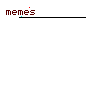
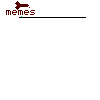
yay it works now

Changed region(s): [[0.15, 0.0, 0.3, 0.12]]

diff --git a/game.py b/game.py
@@ -7,155 +7,26 @@ from vector import *
 from sprite import *
 from map_constructor import *
 
-#IMG = 'http://www.cs.rhul.ac.uk/courses/CS1830/sprites/runnerSheet.png'
-#IMG = 'https://i.postimg.cc/vH7ssn2z/piggie.png'
-#IMG = 'https://i.postimg.cc/bwkbkgb4/excalibur.png'
 WIDTH = 800
 HEIGHT = 450
-count = 0
 clock = 0
+player = None  # will be overwritten
+MAP_CONSTRUCTOR = MapConstructor(HEIGHT)
+map = None
 
-# <<<<<<< HEAD
-# =======
-# #############################################################################################
-# # Platform
-# class Platform:
-#     def __init__(self, y, border, color):
-#         self.y = y
-#         self.border = border
-#         self.color = color
-#         self.normal = Vector((0, 1))
-#         self.edgeR = y + 1 + self.border
-#
-#     def draw(self, canvas):
-#         canvas.draw_line((0, self.y),
-#                          (WIDTH, self.y),
-#                          self.border * 2 + 1,
-#                          self.color)
-#
-#     def hit(self, obj):
-#         h = (obj.offsetB() >= self.edgeR)
-#         return h
-#
-# #############################################################################################
-# # Player
-# class Player: # model the character as a ball for now convenient hitboxes
-#     def __init__(self, pos, vel, radius, image, columns,row):
-#         self.dir = "right"
-#         self.pos = pos
-#         self.vel = vel
-#         self.radius = radius
-#         self.diameter = radius*2
-#         self.border = 1
-#         self.sprite = Sprite(image,columns,row)
-#         self.move_buffer = []
-#         self.collision = []
-#         self.state = "rest"
-#         self.animation_frame = 0
-#
-#     def offsetB(self):
-#         return self.pos.y + self.radius
-#
-#     def update(self):
-#         global clock
-#         self.pos.add(self.vel)
-#         self.vel.subtract(Vector((0,-0.0981)))
-#         if self.state == "rest":
-#             sprite.set_frame([8,0])
-#             for move in self.move_buffer:
-#                 self.handle_move(move)
-#
-#         elif self.state == "attack":
-#             sprite.frame_index = [0,0]
-#             if clock % 3 == 0:
-#                 sprite.step_frame()
-#                 self.animation_frame += 1
-#             self.move_right(1)
-#             if self.animation_frame == 9:
-#                 self.animation_frame = 0
-#                 self.state = "rest"
-#                 self.remove_move("a")
-#
-#         elif self.state == "blink":
-#             if clock % 10 == 0:
-#                 sprite.step_frame()
-#                 self.animation_frame += 1
-#             if self.animation_frame == 9:
-#                 self.animation_frame = 0
-#                 self.state = "rest"
-#                 self.remove_move("s")
-#
-#         self.check_collision()
-#
-#
-#     def draw(self, canvas):
-#         '''canvas.draw_circle(self.pos.getP(),
-#                            self.radius,
-#                            1,
-#                            self.color,
-#                            self.color)
-#         '''
-#         sprite.draw(canvas, (self.pos), (self.diameter, self.diameter))
-#
-#     def add_move(self,key):
-#         self.move_buffer.append(key)
-#
-#     def remove_move(self,key):
-#         for key in self.move_buffer:
-#             self.move_buffer.remove(key)
-#
-#     def handle_move(self,move):
-#         if move == simplegui.KEY_MAP["left"]:
-#             self.dir = "left"
-#             self.move_left(3)
-#         if move == simplegui.KEY_MAP["right"]:
-#             self.dir = "right"
-#             self.move_right(3)
-#         if move == simplegui.KEY_MAP["a"]:
-#             self.__setstate__("attack")
-#         if move == simplegui.KEY_MAP["s"]:
-#             self.__setstate__("blink")
-#
-#     def move_left(self,speed):
-#         self.pos.add(Vector((-speed,0)))
-#
-#     def move_right(self,speed):
-#         self.pos.add(Vector((speed,0)))
-#
-#     def __setstate__(self, state):
-#         self.state = state
-#
-#     def collide(self, object):
-#         self.collision.append(object)
-#
-#     def check_collision(self):
-#         if len(self.collision) != 0:
-#             for object in self.collision:
-#                 if isinstance(object,Platform):
-#                     self.vel.y = 0
-#                     self.pos.y = object.y - self.radius
-# >>>>>>> df0f774c3605c0d21c4cbb6c4b6c8af49be4d7c3
+def return_level_file(level_id):
+    level_dict = {
+        1:"testmap.png"
+    }
+    return level_dict.get(level_id)
 
-#############################################################################################
-# Interaction
 
-class Interaction: # takes list of objects on screen and the player
-    # Obj 1 = Item that hits another (ball)
-    # Obj 2 = Item that gets "hit" (wall)
-    def __init__(self, obj1, obj2):
-        self.obj2 = obj2
-        self.obj1 = obj1
-
-    def update(self):
-        if self.obj1.hit(self.obj2):
-            self.obj2.collide(self.obj1)
-        self.obj2.update()
-        #print(self.wall.hit(self.ball))
-
-    def draw(self, canvas):
-        self.update()
-        self.obj1.draw(canvas)
-        self.obj2.draw(canvas)
+def setup_level(level_id):
+    global MAP_CONSTRUCTOR, map, player
+    map = MAP_CONSTRUCTOR.generate_map(return_level_file(level_id)) # gets the map corresponding to the level id passed
+    for object in map:
+        if isinstance(object, Player):
+            player = object
 
 #############################################################################################
 # Collision
@@ -173,32 +44,16 @@ class Collision:
         return False
 
 #############################################################################################
-# Global Vars
-p = Vector((100,200))
-v = Vector((0,-0.5))
-player = Player(p, v, 32,IMG,1,1)
-plat = Platform(HEIGHT-100)
-i = Interaction(plat, player)
-
-#############################################################################################
 # Game Logic
 
 ###############
 # Handlers
 def draw_handler(canvas):
-    global WIDTH, HEIGHT, sprite,count, OBJECT_ARRAY,player
-    if (count % 5 == 0):
-        #sprite.step_frame()
-        pass
-    #sprite.draw(canvas, Vector((WIDTH / 2, HEIGHT / 2)), (200, 200))
-    count += 1
-    #i.draw(canvas)
-    #i.update()
-    for object in OBJECT_ARRAY:
-        if object is not None:
-            object.draw(canvas)
-    player.draw(canvas)
-    sprite.step_frame()
+    global WIDTH, HEIGHT, sprite, map, player
+    for object in map:
+        object.draw(canvas)
+    #player.draw(canvas)
+    player.sprite.step_frame()
 
 def key_down_handler(key):
     player.add_move(key)
@@ -212,10 +67,7 @@ def timer_handler():
 
 ###############
 # Rest of Code
-
-map = MapConstructor(HEIGHT)
-OBJECT_ARRAY= map.return_obj_array("testmap.png")
-
+setup_level(1)
 timer = simplegui.create_timer(1, timer_handler)
 timer.start()
 

diff --git a/archiveStuff.py b/archiveStuff.py
@@ -1,48 +1,30 @@
-from vector import *
-from sprite import *
-from abc import ABC, abstractmethod
-IMG ='https://i.postimg.cc/7L7LYWTC/blink-sprites.png'
-sprite = Sprite(IMG, 9, 6)
-
+<<<<<<< HEAD
+=======
 #############################################################################################
 # Platform
 class Platform:
-    def __init__(self, y=400):
+    def __init__(self, y, border, color):
         self.y = y
-        self.border = 1
-        self.color = "red"
+        self.border = border
+        self.color = color
         self.normal = Vector((0, 1))
         self.edgeR = y + 1 + self.border
 
     def draw(self, canvas):
         canvas.draw_line((0, self.y),
-                         (50000, self.y),
+                         (WIDTH, self.y),
                          self.border * 2 + 1,
-                         self.color) # each level is 1000 pixels long
-        sprite.draw(canvas, Vector((0,self.y)), (16,16),[0,4])
+                         self.color)
 
     def hit(self, obj):
         h = (obj.offsetB() >= self.edgeR)
         return h
 
-class FloatingPlatform(Platform):
-    def __init__(self, x, width, y=400):
-        self.y = y
-        self.x = x
-        self.width = width
-        super().__init__(y)
-
-    def draw(self, canvas):
-        # canvas.draw_line((self.x, self.y),
-        #                  (self.x+self.width, self.y),
-        #                  self.border * 2 + 1,
-        #                  self.color)  # each level is 1000 pixels long
-        sprite.draw(canvas, Vector((self.x,self.y)), (16,16),[0,5])
-
 #############################################################################################
 # Player
 class Player: # model the character as a ball for now convenient hitboxes
-    def __init__(self, pos=Vector((0,0)), vel=Vector((0,0)),radius=32, image=IMG, columns=1,row=1):
+    def __init__(self, pos, vel, radius, image, columns,row):
+        self.dir = "right"
         self.pos = pos
         self.vel = vel
         self.radius = radius
@@ -107,8 +89,10 @@ class Player: # model the character as a ball for now convenient hitboxes
 
     def handle_move(self,move):
         if move == simplegui.KEY_MAP["left"]:
+            self.dir = "left"
             self.move_left(3)
         if move == simplegui.KEY_MAP["right"]:
+            self.dir = "right"
             self.move_right(3)
         if move == simplegui.KEY_MAP["a"]:
             self.__setstate__("attack")
@@ -133,17 +117,4 @@ class Player: # model the character as a ball for now convenient hitboxes
                 if isinstance(object,Platform):
                     self.vel.y = 0
                     self.pos.y = object.y - self.radius
-
-class Enemy:
-    def __init__(self, x, y, sprite_progression=1):
-        self.collision = []
-        self.x = x
-        self.y = y
-        self.sprite_progression = sprite_progression
-
-class Blip(Enemy):
-    def __init__(self, x, y, velocity, radius):
-        super().__init__(x,y,radius)
-        self.radius = radius
-        self.velocity = velocity
-        sprite_progression = [1,2,1,4]
+>>>>>>> df0f774c3605c0d21c4cbb6c4b6c8af49be4d7c3

diff --git a/map_constructor.py b/map_constructor.py
@@ -14,11 +14,10 @@ class MapConstructor:
         temp_array = [x for x in range(size)]
         for index in temp_array:
             temp_array[index] = [False for x in range(size)]
-        print(temp_array)
         return temp_array
 
 
-    def return_obj_array(self, filename):
+    def generate_map(self, filename):
         object_array = []
         try:
             map = Image.open(filename)
@@ -35,18 +34,22 @@ class MapConstructor:
                 pixel_matrix[row][column] = True
                 if r != 255 or g != 255 or b != 255:
                     hexval = rgb2hex(r,g,b)
-                    object_array.append(self.object_type(hexval,(row,column)))
+                    object_to_add = self.object_type(hexval,(row,column))
+
+                    if object_to_add is not None:
+                        print(type(object_to_add),hexval)
+                        object_array.append(object_to_add)
         return object_array
+
 
     def object_type(self, hexval,*arg):
         X = arg[0][0] * 16
         Y = arg[0][1] * 16
-        print(X,Y)
-
+        hexval = hexval.lower()
         # a 32 pixel wide sprite should be 16 pixels across
         object_dict = {
             "#000000":Platform(),
-            "#570000":FloatingPlatform(X,32,Y)
-            #"#00e9e5":Player(Vector((X,Y)))
+            "#570000":FloatingPlatform(X,32,Y),
+            "#00e9e5":Player(Vector((X,Y)),Vector((0,0)),32,IMG,9,5)
         }
         return object_dict.get(hexval)
